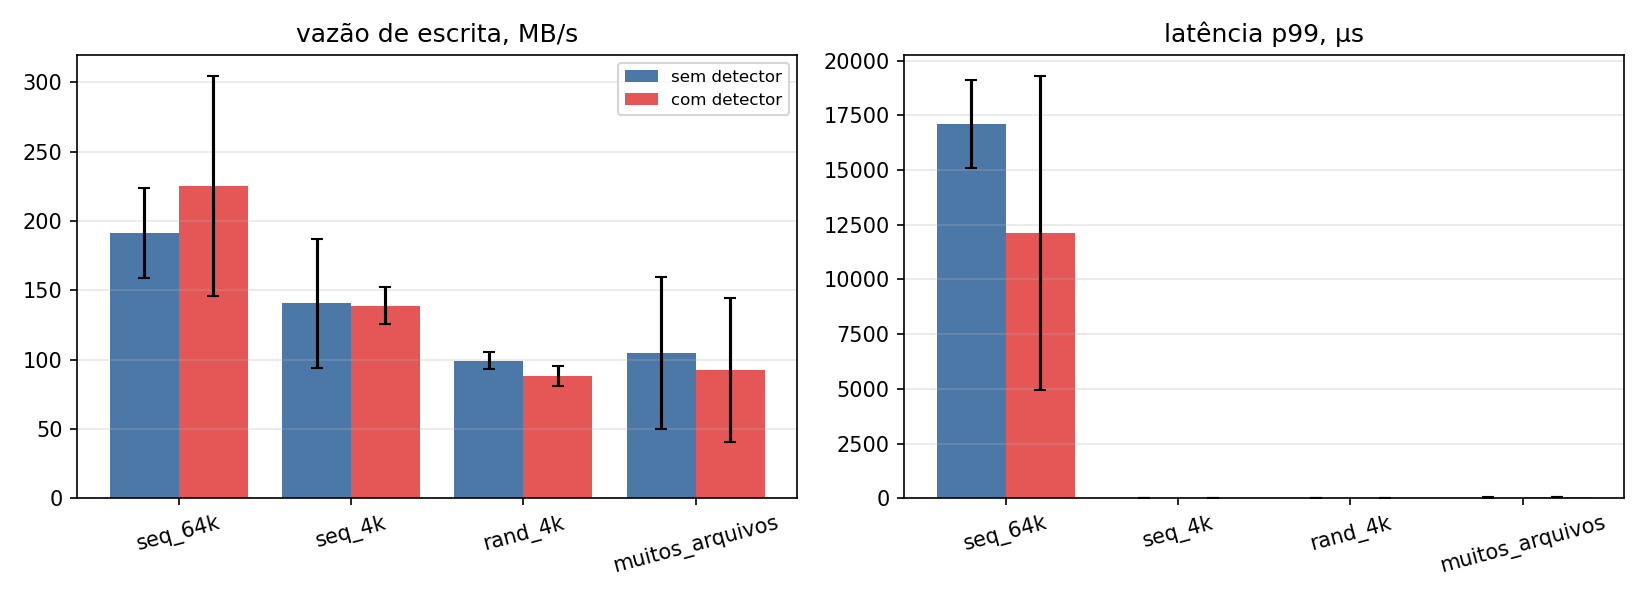
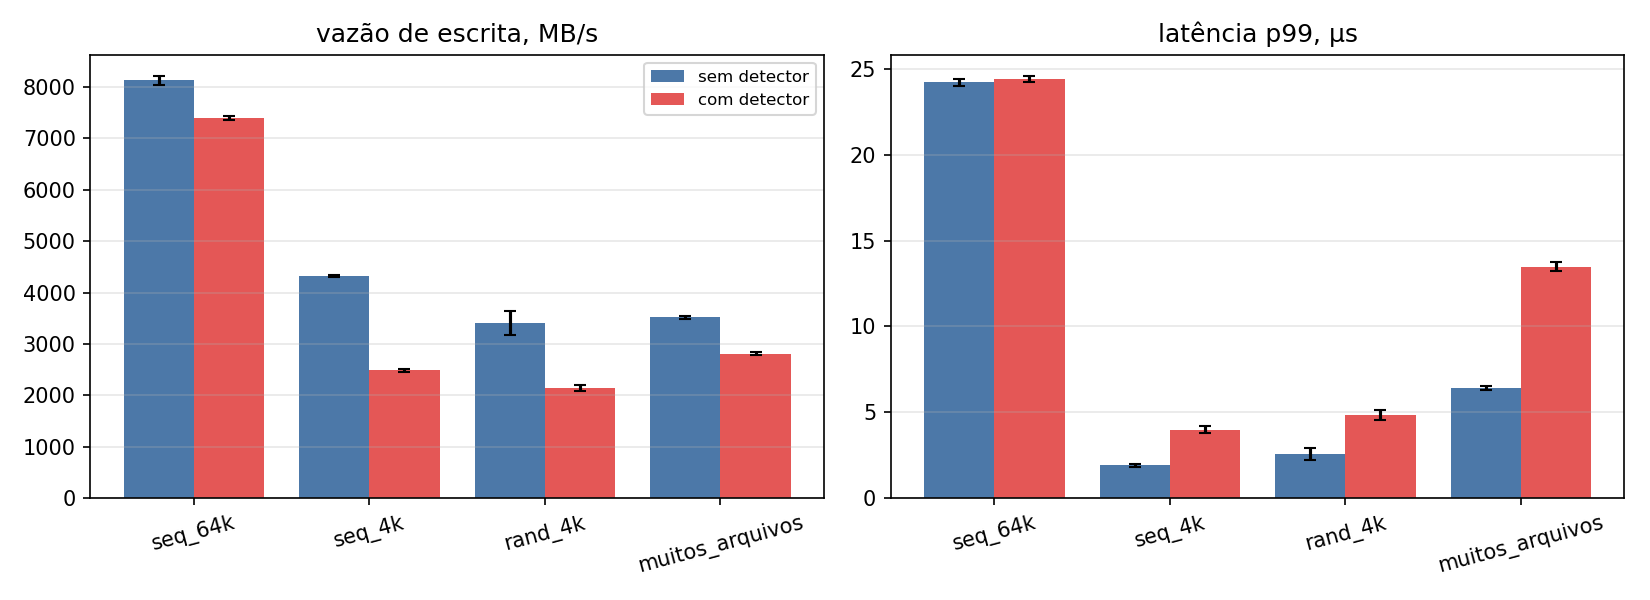
Inclui overhead.csv, bench.md e o gráfico da rodada em /dev/shm

diff --git a/bench/results/bench.md b/bench/results/bench.md
@@ -6,10 +6,10 @@ Média ± desvio padrão entre repetições. CPU sys é do fio, que é onde o te
 
 | carga | MB/s sem | MB/s com | perda de vazão | p99 µs sem | p99 µs com | CPU sys % sem | CPU sys % com | ns por kprobe | CPU do agente s | reps |
 | --- | --- | --- | --- | --- | --- | --- | --- | --- | --- | --- |
-| seq_64k | 191.3 ± 32.6 | 225.4 ± 79.6 | -17.8% | 17104.9 ± 2023.7 | 12137.7 ± 7179.1 | 12.4 | 14.7 | 1784 | 0.014 | 5 |
-| seq_4k | 140.6 ± 46.3 | 139.1 ± 13.4 | +1.1% | 16.5 ± 2.9 | 21.2 ± 1.2 | 10.4 | 13.6 | 1448 | 0.022 | 5 |
-| rand_4k | 99.3 ± 5.9 | 88.4 ± 7.2 | +11.0% | 21.9 ± 1.3 | 30.0 ± 3.9 | 11.3 | 12.7 | 1566 | 0.018 | 5 |
-| muitos_arquivos | 104.8 ± 54.9 | 92.6 ± 52.0 | +11.6% | 34.9 ± 4.1 | 44.7 ± 8.8 | 15.1 | 14.0 | 1852 | 0.418 | 5 |
+| seq_64k | 8126.9 ± 92.4 | 7393.8 ± 45.0 | +9.0% | 24.2 ± 0.2 | 24.4 ± 0.2 | 89.6 | 89.4 | 1194 | 0.006 | 5 |
+| seq_4k | 4324.8 ± 25.5 | 2487.5 ± 31.4 | +42.5% | 1.9 ± 0.1 | 4.0 ± 0.2 | 64.8 | 75.6 | 1023 | 0.008 | 5 |
+| rand_4k | 3411.4 ± 227.5 | 2146.4 ± 63.8 | +37.1% | 2.6 ± 0.4 | 4.8 ± 0.3 | 61.8 | 73.6 | 1072 | 0.008 | 5 |
+| muitos_arquivos | 3521.2 ± 29.0 | 2811.2 ± 28.1 | +20.2% | 6.4 ± 0.1 | 13.5 ± 0.3 | 75.7 | 78.5 | 1483 | 8.194 | 5 |
 
 ![overhead](../plots/overhead.png)
 
